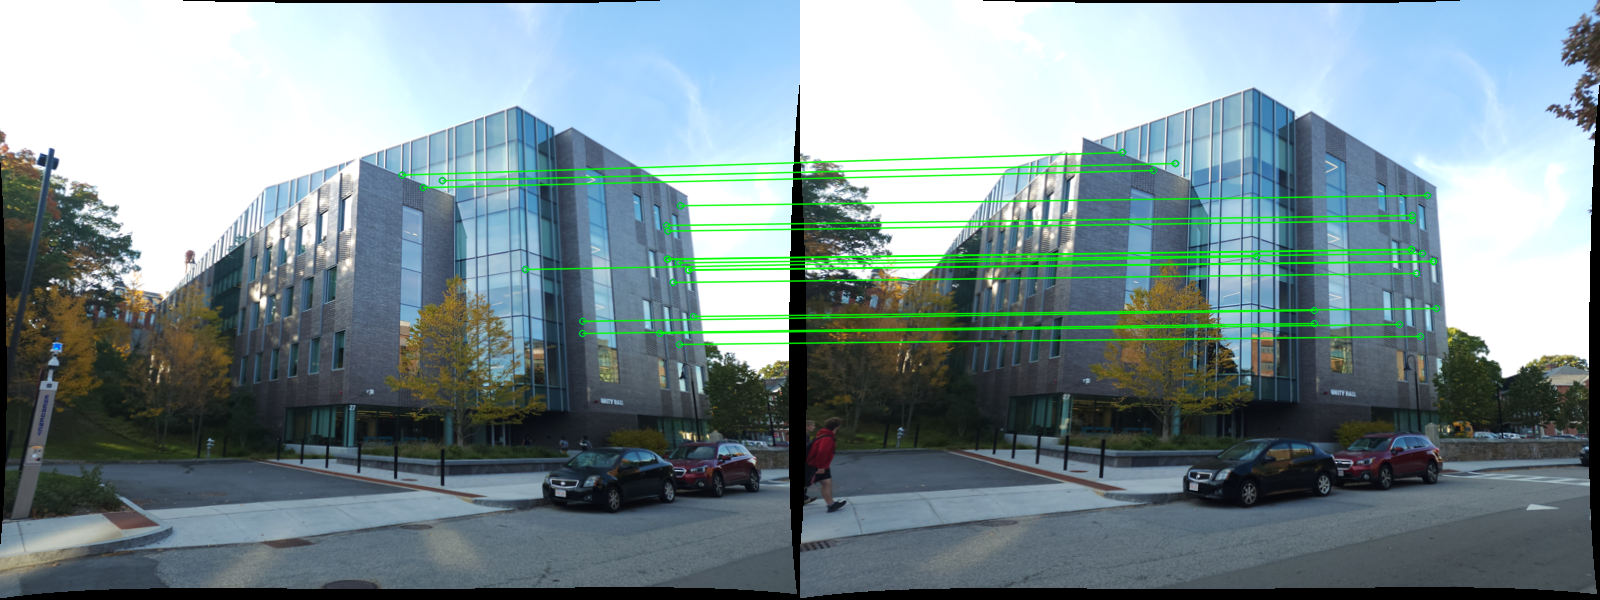
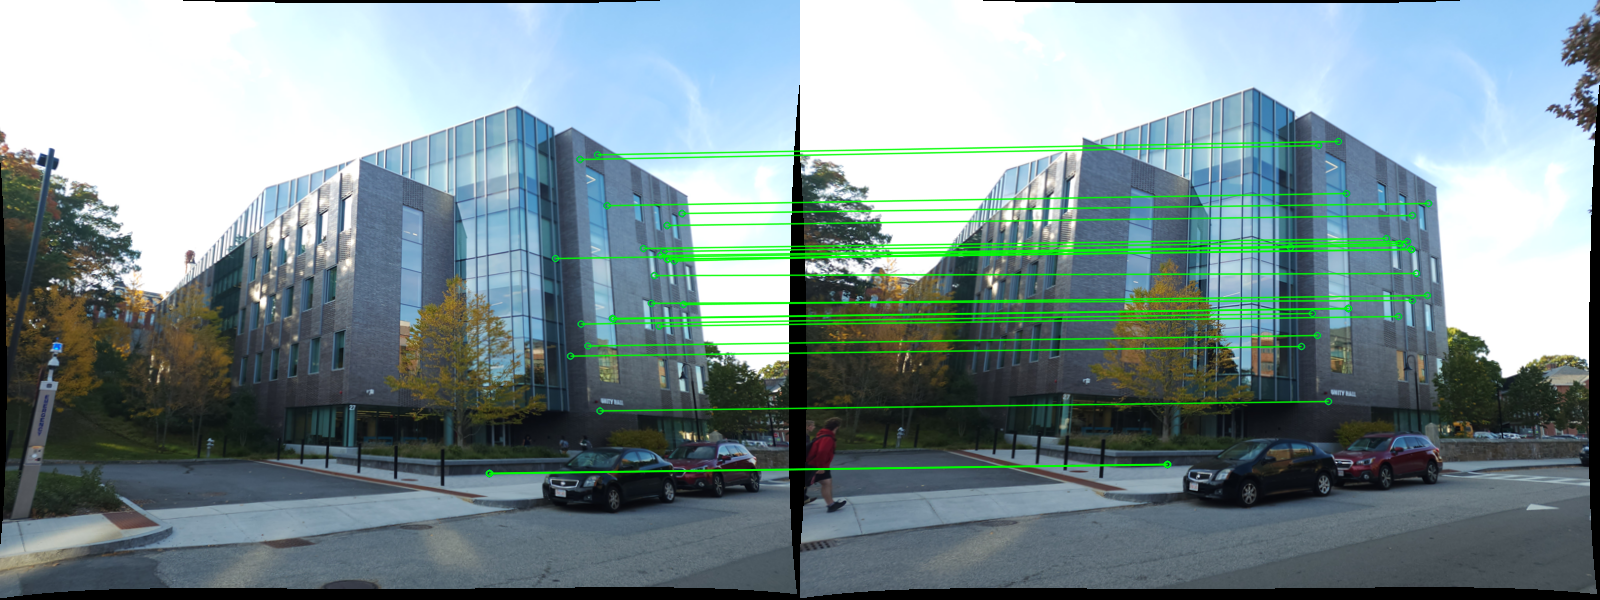
Calculated Essential Matrix, and extracted camera pose from it

diff --git a/Wrapper_dev.py b/Wrapper_dev.py
@@ -5,6 +5,8 @@ from itertools import combinations
 from Utils import *
 from GetHomographyInliers import *
 from GetInliersRANSAC import get_inliers_ransac
+from EssentialMatrixFromFundamentalMatrix import EssentialMatrixFromFundamentalMatrix
+from ExtractCameraPose import ExtractCameraPose
 
 def natural_sort_key(text):
     """Convert text to a tuple for natural sorting (e.g., '2.png' before '10.png')"""
@@ -25,6 +27,7 @@ def sfm_wrapper(data_path, results_dir):
     print(image_paths)
 
     feature_x, feature_y, feature_flag = get_data(data_path, len(image_ids))
+    filtered_feature_flags = np.zeros_like(feature_flag)
     print(feature_x.shape)
     print(feature_y.shape)
     print(feature_flag.shape)
@@ -46,6 +49,13 @@ def sfm_wrapper(data_path, results_dir):
     homography_matches_dir = os.path.join(results_dir, "homography_matches")
     if not os.path.exists(homography_matches_dir):
         os.makedirs(homography_matches_dir)
+    
+    # Create directory for RANSAC matches
+    ransac_matches_dir = os.path.join(results_dir, "ransac_matches")
+    if not os.path.exists(ransac_matches_dir):
+        os.makedirs(ransac_matches_dir)
+
+    inliers = {} # Dictionary of global inliers between all combinations
     
     print("\nSaving original matches for all image combinations...")
     for combination in feature_combinations:
@@ -91,8 +101,53 @@ def sfm_wrapper(data_path, results_dir):
         image2_coords_inliers = np.hstack((feature_x[f_inlier_idx, image2_id-1].reshape((-1,1)), feature_y[f_inlier_idx, image2_id-1].reshape((-1,1))))
 
         print('Number of matches RANSAC: ', len(image1_coords_inliers))
+        save_path = os.path.join(ransac_matches_dir, f'ransac_matches_{combination_key}.png')
         draw_feature_matches(image_paths[image1_id-1], image_paths[image2_id-1], image1_coords_inliers, image2_coords_inliers,
-                                 color=(0, 255, 0), save_path=results_dir+f'/ransac_matches_{combination_key}.png')
+                                 color=(0, 255, 0), save_path=save_path)
+        print(f"  Saved: {save_path} ({len(f_inlier_idx)} inliers)")
+        inliers[combination_key] = [image1_coords_inliers, image2_coords_inliers]
+        filtered_feature_flags[f_inlier_idx, image1_id-1] = 1
+        filtered_feature_flags[f_inlier_idx, image2_id-1] = 1
+
+    print(f"\nAll original matches saved to: {original_matches_dir}")
+    print(f"All homography matches saved to: {homography_matches_dir}")
+    print(f"All RANSAC matches saved to: {ransac_matches_dir}")
+    
+    #Consider only first 2 image pairs for now
+    image1_id, image2_id = feature_combinations[0]
+    combination_key = str(image1_id) + "_" + str(image2_id)
+    result_dir = os.path.join(results_dir, combination_key)
+    
+    if not os.path.exists(result_dir):
+        os.makedirs(result_dir)
+
+    print(f'Processing image pair: {combination_key}')
+
+    _idx = np.where(filtered_feature_flags[:, image1_id-1] & filtered_feature_flags[:, image2_id-1])
+    image1_inliers = np.hstack((feature_x[_idx, image1_id-1].reshape((-1, 1)), feature_y[_idx, image1_id-1].reshape((-1, 1))))
+    image2_inliers = np.hstack((feature_x[_idx, image2_id-1].reshape((-1, 1)), feature_y[_idx, image2_id-1].reshape((-1, 1))))
+
+    K = np.array([[531.122155322710, 0 ,407.192550839899],[0, 531.541737503901, 313.308715048366],[0,0,1]])
+    
+    E = EssentialMatrixFromFundamentalMatrix(F, K)
+
+    C, R = ExtractCameraPose(E)
+
+    
+
+
+
+
+
+
+
+
+
+
+
+
+
+
 
 if __name__ == "__main__":
     parser = argparse.ArgumentParser()

diff --git a/ExtractCameraPose.py b/ExtractCameraPose.py
@@ -2,18 +2,73 @@ import numpy as np
 
 def ExtractCameraPose(E):
     """
-    Estimate the camera pose given the essentil matrix.
+    Estimate the camera pose given the essential matrix.
+    Extracts 4 possible camera pose configurations from the essential matrix.
 
     Parameters
     ----------
     E : array-like
-        The essential matrix
+        The essential matrix (3 x 3)
     
     Results
     -------
     Cset : array-like
-        the set of camera centers
+        the set of camera centers (4 x 3 array, each row is a camera center)
     Rset : array-like
-        the set of rotation matrices
+        the set of rotation matrices (4 x 3 x 3 array)
     """
+    # Convert to numpy array
+    E = np.array(E)
     
+    # Perform SVD on essential matrix
+    U, S, Vt = np.linalg.svd(E)
+    
+    # Ensure proper SVD (det(U) * det(V^T) = 1)
+    if np.linalg.det(U) * np.linalg.det(Vt) < 0:
+        U[:, -1] *= -1
+    
+    # Define W matrix (skew-symmetric matrix)
+    W = np.array([[0, -1, 0],
+                  [1, 0, 0],
+                  [0, 0, 1]])
+    
+    # Two possible rotations
+    R1 = U @ W @ Vt
+    R2 = U @ W.T @ Vt
+    
+    # Two possible translations (up to scale, third column of U)
+    t = U[:, 2]
+    
+    # Normalize translation
+    t = t / np.linalg.norm(t)
+    
+    # Four possible camera pose configurations
+    # For each configuration, camera center C = -R^T * t
+    Cset = []
+    Rset = []
+    
+    # Configuration 1: R1, t
+    C1 = -R1.T @ t
+    Cset.append(C1)
+    Rset.append(R1)
+    
+    # Configuration 2: R1, -t
+    C2 = -R1.T @ (-t)
+    Cset.append(C2)
+    Rset.append(R1)
+    
+    # Configuration 3: R2, t
+    C3 = -R2.T @ t
+    Cset.append(C3)
+    Rset.append(R2)
+    
+    # Configuration 4: R2, -t
+    C4 = -R2.T @ (-t)
+    Cset.append(C4)
+    Rset.append(R2)
+    
+    # Convert to numpy arrays
+    Cset = np.array(Cset)
+    Rset = np.array(Rset)
+    
+    return Cset, Rset

diff --git a/EssentialMatrixFromFundamentalMatrix.py b/EssentialMatrixFromFundamentalMatrix.py
@@ -16,4 +16,4 @@ def EssentialMatrixFromFundamentalMatrix(F, K):
     E : array-like
         The essential matrix
     """
-    
+    return K.T @ F @ K
